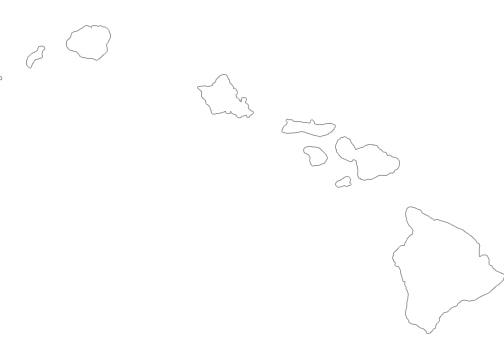
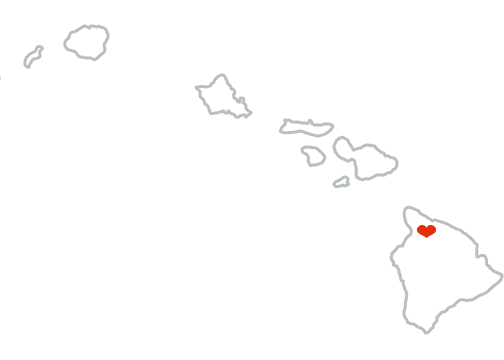
adding airline junk. GO TO BED LIZ

diff --git a/app/styles/main.css b/app/styles/main.css
@@ -80,7 +80,7 @@ section p:last-child {
 }
 
 a {
-  color: #1d2951;
+  color: inherit;
 }
 a:hover,
 a:active {
@@ -93,6 +93,12 @@ a:active {
 }
 
 .festivities {
+  background-color: #1d2951;
+  color: #fefef9;
+  padding: 40px 20px;
+}
+
+.getting-there {
   background-color: #e9efef;
   padding: 40px 20px;
 }
@@ -132,14 +138,20 @@ a:active {
   }
   .aloha {
     font-size: 24px;
-    padding: 220px 0 150px;
+    padding: 220px 0 200px;
   }
   .festivities {
-    background: #e9efef url("../images/anna-ranch.jpg") no-repeat 80% 50%;
-    padding: 150px 0;
+    background: #1d2951 url("../images/anna-ranch.jpg") no-repeat 20% 50%;
+    padding: 220px 0;
+    text-align: right;
   }
-  .festivities h2 {
+  .festivities h2,
+  .getting-there h2 {
     margin-bottom: 50px;
+  }
+  .getting-there {
+    background: #e9efef url("../images/hawaii.png") no-repeat 60% 40%;
+    padding: 220px 0;
   }
 }
 

diff --git a/app/index.html b/app/index.html
@@ -30,5 +30,17 @@
         </p>
       </div>
     </section>
+    <section class="getting-there">
+      <div>
+        <h2>Getting There</h2>
+        <h3>Airport Info</h3>
+        <p>Kona International Airport at Keahole<br>
+          KOA Kailua-Kona<br>
+          73-200 Kupipi Street<br>
+          Kailua-Kona, HI 96740-2645<br>
+          <a href="http://hawaii.gov/koa/airport-information/airlines-at-koa">Airlines servicing KOA</a>
+        </p>
+      </div>
+    </section>
   </body>
 </html>
